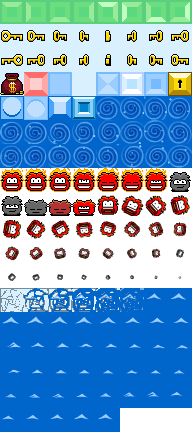
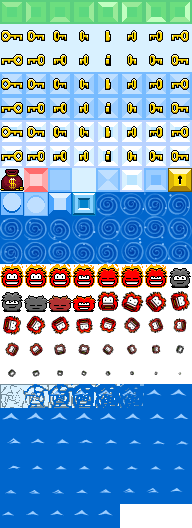
Reacomodo el mapa y el fondo.
* Nuevo set de imagenes para los fondos faltantes de llaves.

diff --git a/src/thinice.c b/src/thinice.c
@@ -75,6 +75,9 @@
 #define TILE_HEIGHT 24
 #define TILE_WIDTH 24
 
+#define MAP_X 144
+#define MAP_Y 48
+
 /* Enumerar las imágenes */
 enum {
 	IMG_ARCADE,
@@ -125,6 +128,40 @@ enum {
 	TILE_KEY_14,
 	TILE_KEY_15,
 	TILE_KEY_16,
+	
+	TILE_KEY_B_1,
+	TILE_KEY_B_2,
+	TILE_KEY_B_3,
+	TILE_KEY_B_4,
+	TILE_KEY_B_5,
+	TILE_KEY_B_6,
+	TILE_KEY_B_7,
+	TILE_KEY_B_8,
+	TILE_KEY_B_9,
+	TILE_KEY_B_10,
+	TILE_KEY_B_11,
+	TILE_KEY_B_12,
+	TILE_KEY_B_13,
+	TILE_KEY_B_14,
+	TILE_KEY_B_15,
+	TILE_KEY_B_16,
+	
+	TILE_KEY_C_1,
+	TILE_KEY_C_2,
+	TILE_KEY_C_3,
+	TILE_KEY_C_4,
+	TILE_KEY_C_5,
+	TILE_KEY_C_6,
+	TILE_KEY_C_7,
+	TILE_KEY_C_8,
+	TILE_KEY_C_9,
+	TILE_KEY_C_10,
+	TILE_KEY_C_11,
+	TILE_KEY_C_12,
+	TILE_KEY_C_13,
+	TILE_KEY_C_14,
+	TILE_KEY_C_15,
+	TILE_KEY_C_16,
 	
 	TILE_BAG,
 	TILE_GOAL,
@@ -332,7 +369,29 @@ static int tiles_frames [] = {
 	/* Torbellino */
 	118, 119, 120, 121, 122,
 	123, 124, 125, 126, 127, 128, 129, 130,
-	131, 132, 133, 134, 135, 136, 137, 119
+	131, 132, 133, 134, 135, 136, 137, 119,
+	
+	/* Llave 2 */
+	139,
+	140, 141, 142, 143,
+	144, 145, 146, 147,
+	148, 149, 150, 151,
+	152, 153, 154, 155,
+	156, 157, 158, 159,
+	160, 161, 162, 163,
+	164, 165, 166, 167,
+	168, 169, 170, 139,
+	
+	/* Llave 3 */
+	172,
+	173, 174, 175, 176,
+	177, 178, 179, 180,
+	181, 182, 183, 184,
+	185, 186, 187, 188,
+	189, 190, 191, 192,
+	193, 194, 195, 196,
+	197, 198, 199, 200,
+	201, 202, 203, 172
 };
 
 
@@ -400,7 +459,43 @@ static int tiles_outputs [] = {
 	TILE_LOSE_5, TILE_LOSE_6, TILE_LOSE_7, TILE_LOSE_8,
 	TILE_LOSE_9, TILE_LOSE_10, TILE_LOSE_11, TILE_LOSE_12,
 	TILE_LOSE_13, TILE_LOSE_14, TILE_LOSE_15, TILE_LOSE_16,
-	TILE_LOSE_17, TILE_LOSE_18, TILE_LOSE_19, TILE_LOSE_20
+	TILE_LOSE_17, TILE_LOSE_18, TILE_LOSE_19, TILE_LOSE_20,
+	
+	TILE_KEY_B_1,
+	TILE_KEY_B_1, TILE_KEY_B_1,
+	TILE_KEY_B_2, TILE_KEY_B_2,
+	TILE_KEY_B_3, TILE_KEY_B_3,
+	TILE_KEY_B_4, TILE_KEY_B_4,
+	TILE_KEY_B_5, TILE_KEY_B_5,
+	TILE_KEY_B_6, TILE_KEY_B_6,
+	TILE_KEY_B_7, TILE_KEY_B_7,
+	TILE_KEY_B_8, TILE_KEY_B_8,
+	TILE_KEY_B_9, TILE_KEY_B_9,
+	TILE_KEY_B_10, TILE_KEY_B_10,
+	TILE_KEY_B_11, TILE_KEY_B_11,
+	TILE_KEY_B_12, TILE_KEY_B_12,
+	TILE_KEY_B_13, TILE_KEY_B_13,
+	TILE_KEY_B_14, TILE_KEY_B_14,
+	TILE_KEY_B_15, TILE_KEY_B_15,
+	TILE_KEY_B_16, TILE_KEY_B_16,
+	
+	TILE_KEY_C_1,
+	TILE_KEY_C_1, TILE_KEY_C_1,
+	TILE_KEY_C_2, TILE_KEY_C_2,
+	TILE_KEY_C_3, TILE_KEY_C_3,
+	TILE_KEY_C_4, TILE_KEY_C_4,
+	TILE_KEY_C_5, TILE_KEY_C_5,
+	TILE_KEY_C_6, TILE_KEY_C_6,
+	TILE_KEY_C_7, TILE_KEY_C_7,
+	TILE_KEY_C_8, TILE_KEY_C_8,
+	TILE_KEY_C_9, TILE_KEY_C_9,
+	TILE_KEY_C_10, TILE_KEY_C_10,
+	TILE_KEY_C_11, TILE_KEY_C_11,
+	TILE_KEY_C_12, TILE_KEY_C_12,
+	TILE_KEY_C_13, TILE_KEY_C_13,
+	TILE_KEY_C_14, TILE_KEY_C_14,
+	TILE_KEY_C_15, TILE_KEY_C_15,
+	TILE_KEY_C_16, TILE_KEY_C_16
 };
 
 static int tiles_inicio [] = {
@@ -412,8 +507,8 @@ static int tiles_inicio [] = {
 	59,
 	26,
 	70,
-	26, /* FIXME: Debe ser sobre una caja vacia */
-	26, /* FIXME: Debe ser sobre un hielo doble */
+	138,
+	171,
 	69,
 	64,
 	117,
@@ -476,7 +571,10 @@ int game_loop (void) {
 	
 	nivel = 1;
 	
+	SDL_BlitSurface (images[IMG_ARCADE], NULL, screen, NULL);
+	
 	load_map (nivel, mapa, frames);
+	SDL_Flip (screen);
 	do {
 		last_time = SDL_GetTicks ();
 		
@@ -487,28 +585,32 @@ int game_loop (void) {
 					done = GAME_QUIT;
 					break;
 				case SDL_KEYDOWN:
-					if (event.key.keysym.sym == SDLK_SPACE) {
-						if (nivel < 38) nivel++;
-						load_map (nivel, mapa, frames);
-					} else if (event.key.keysym.sym == SDLK_a) {
-						nivel--;
-						load_map (nivel, mapa, frames);
+					if (event.key.keysym.sym == SDLK_DOWN) {
+					} else if (event.key.keysym.sym == SDLK_UP) {
+					} else if (event.key.keysym.sym == SDLK_LEFT) {
+					} else if (event.key.keysym.sym == SDLK_RIGHT) {
 					}
 					break;
 			}
 		}
+		
 		for (g = 0; g < 15; g++) {
 			for (h = 0; h < 19; h++) {
 				frames[g][h] = tiles_frames[frames[g][h]];
 				
-				rect.x = 100 + (h * TILE_HEIGHT);
-				rect.y = 50 + (g * TILE_WIDTH);
+				rect.x = MAP_X + (h * TILE_HEIGHT);
+				rect.y = MAP_Y + (g * TILE_WIDTH);
 				
 				copy_tile (&rect, tiles_outputs [frames[g][h]]);
 			}
 		}
 		
-		SDL_Flip (screen);
+		rect.x = MAP_X;
+		rect.y = MAP_Y;
+		rect.w = 456;
+		rect.h = 360;
+		
+		SDL_UpdateRects (screen, 1, &rect);
 		
 		now_time = SDL_GetTicks ();
 		if (now_time < last_time + FPS) SDL_Delay(last_time + FPS - now_time);
@@ -603,11 +705,7 @@ void load_map (int nivel, int (*mapa)[19], int (*frames)[19]) {
 	int r;
 	
 	r = RANDOM(2);
-	r = nivel % 2;
-	nivel = (nivel + 1)/ 2;
-	printf ("Random: %i\n", r);
 	
-	/* TODO: Sortear número aleatorio */
 	switch (nivel) {
 		case 1:
 			copiar = mapa_1;
